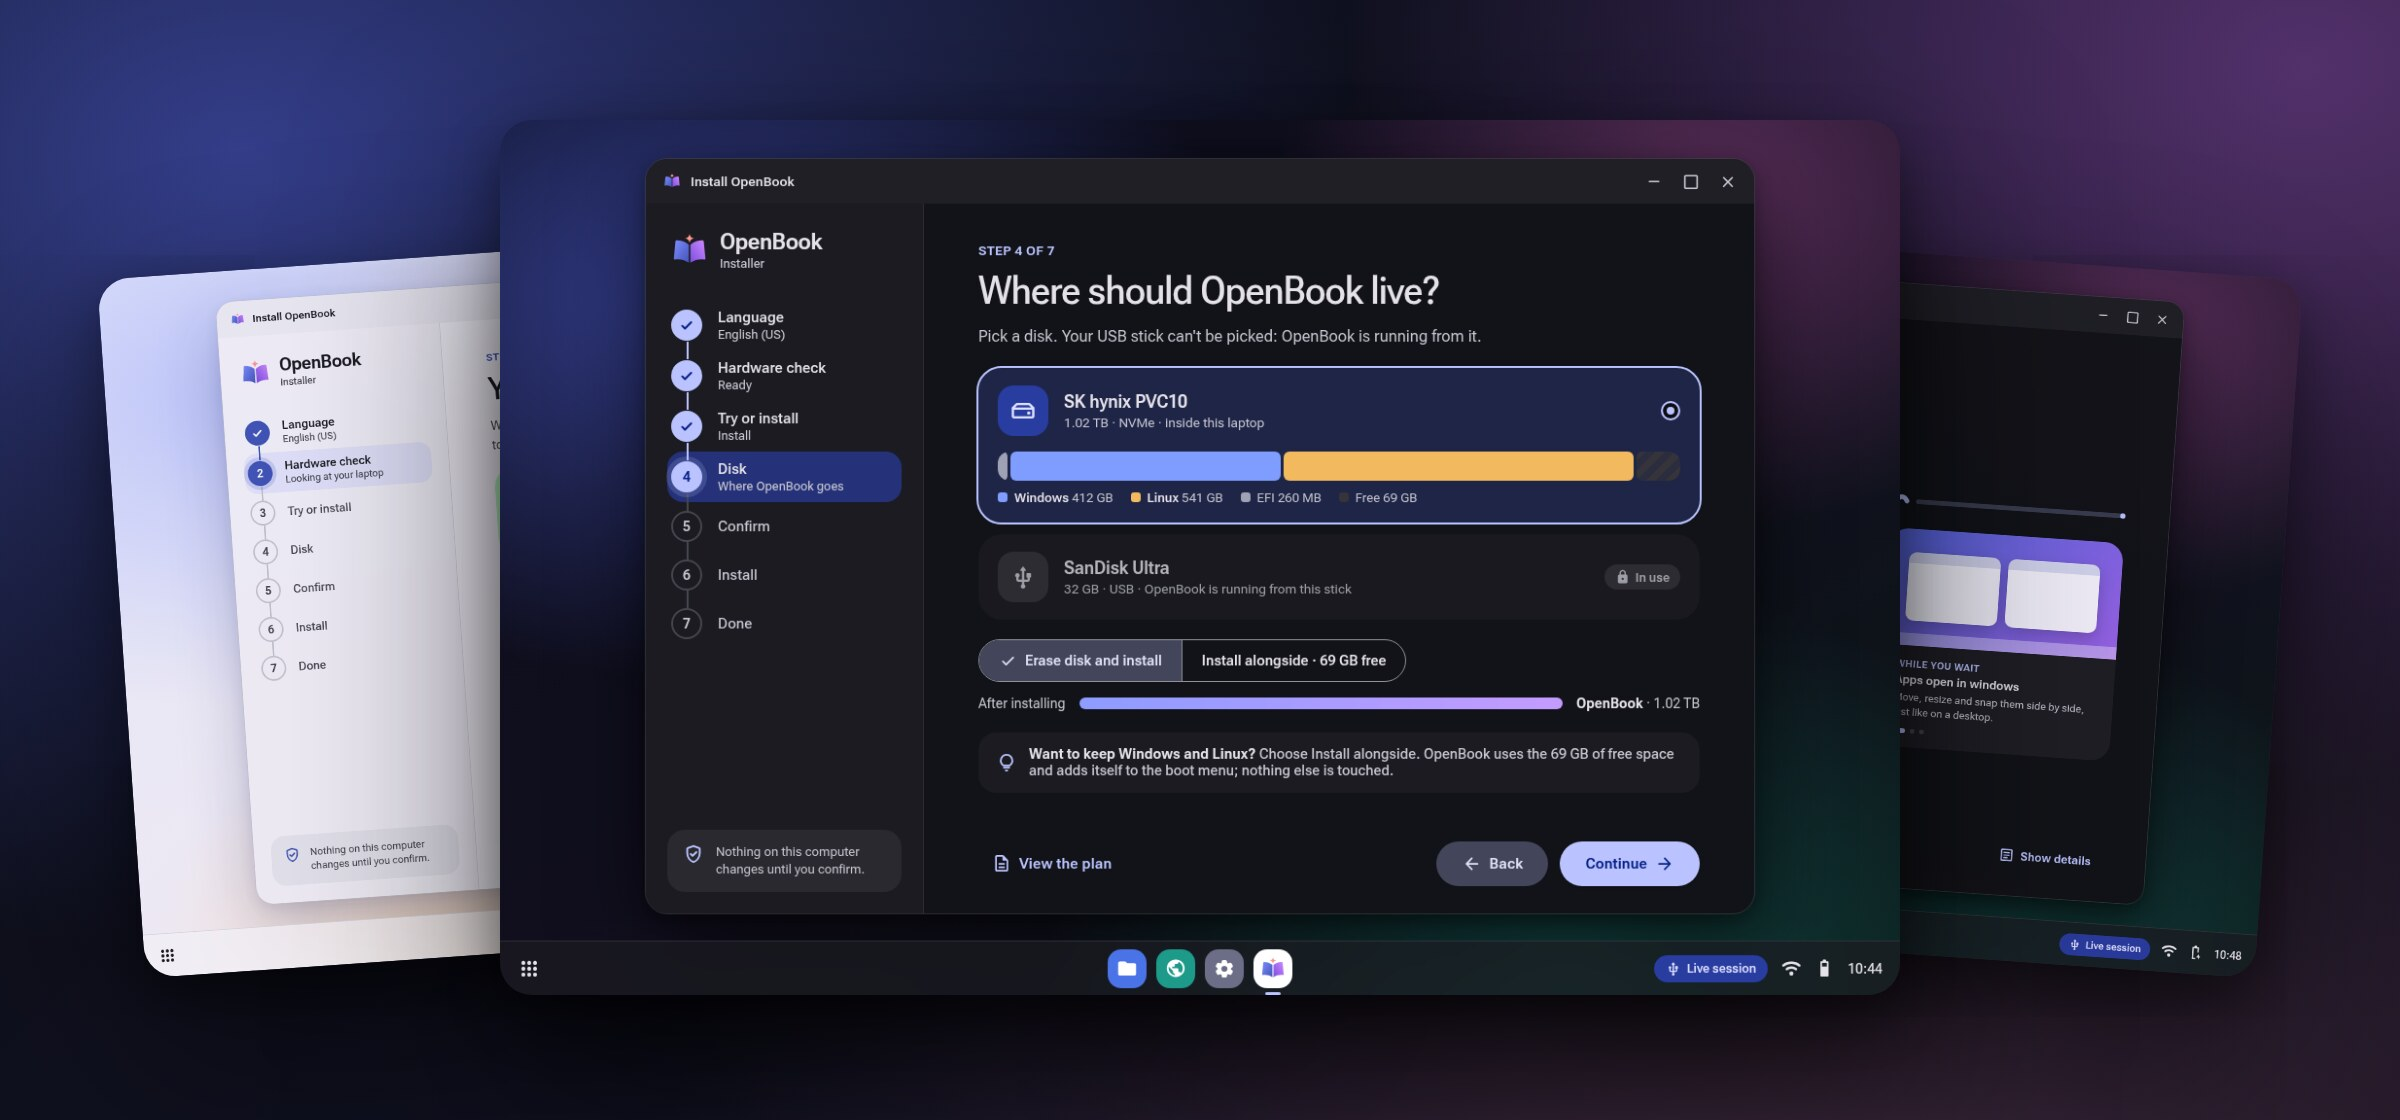
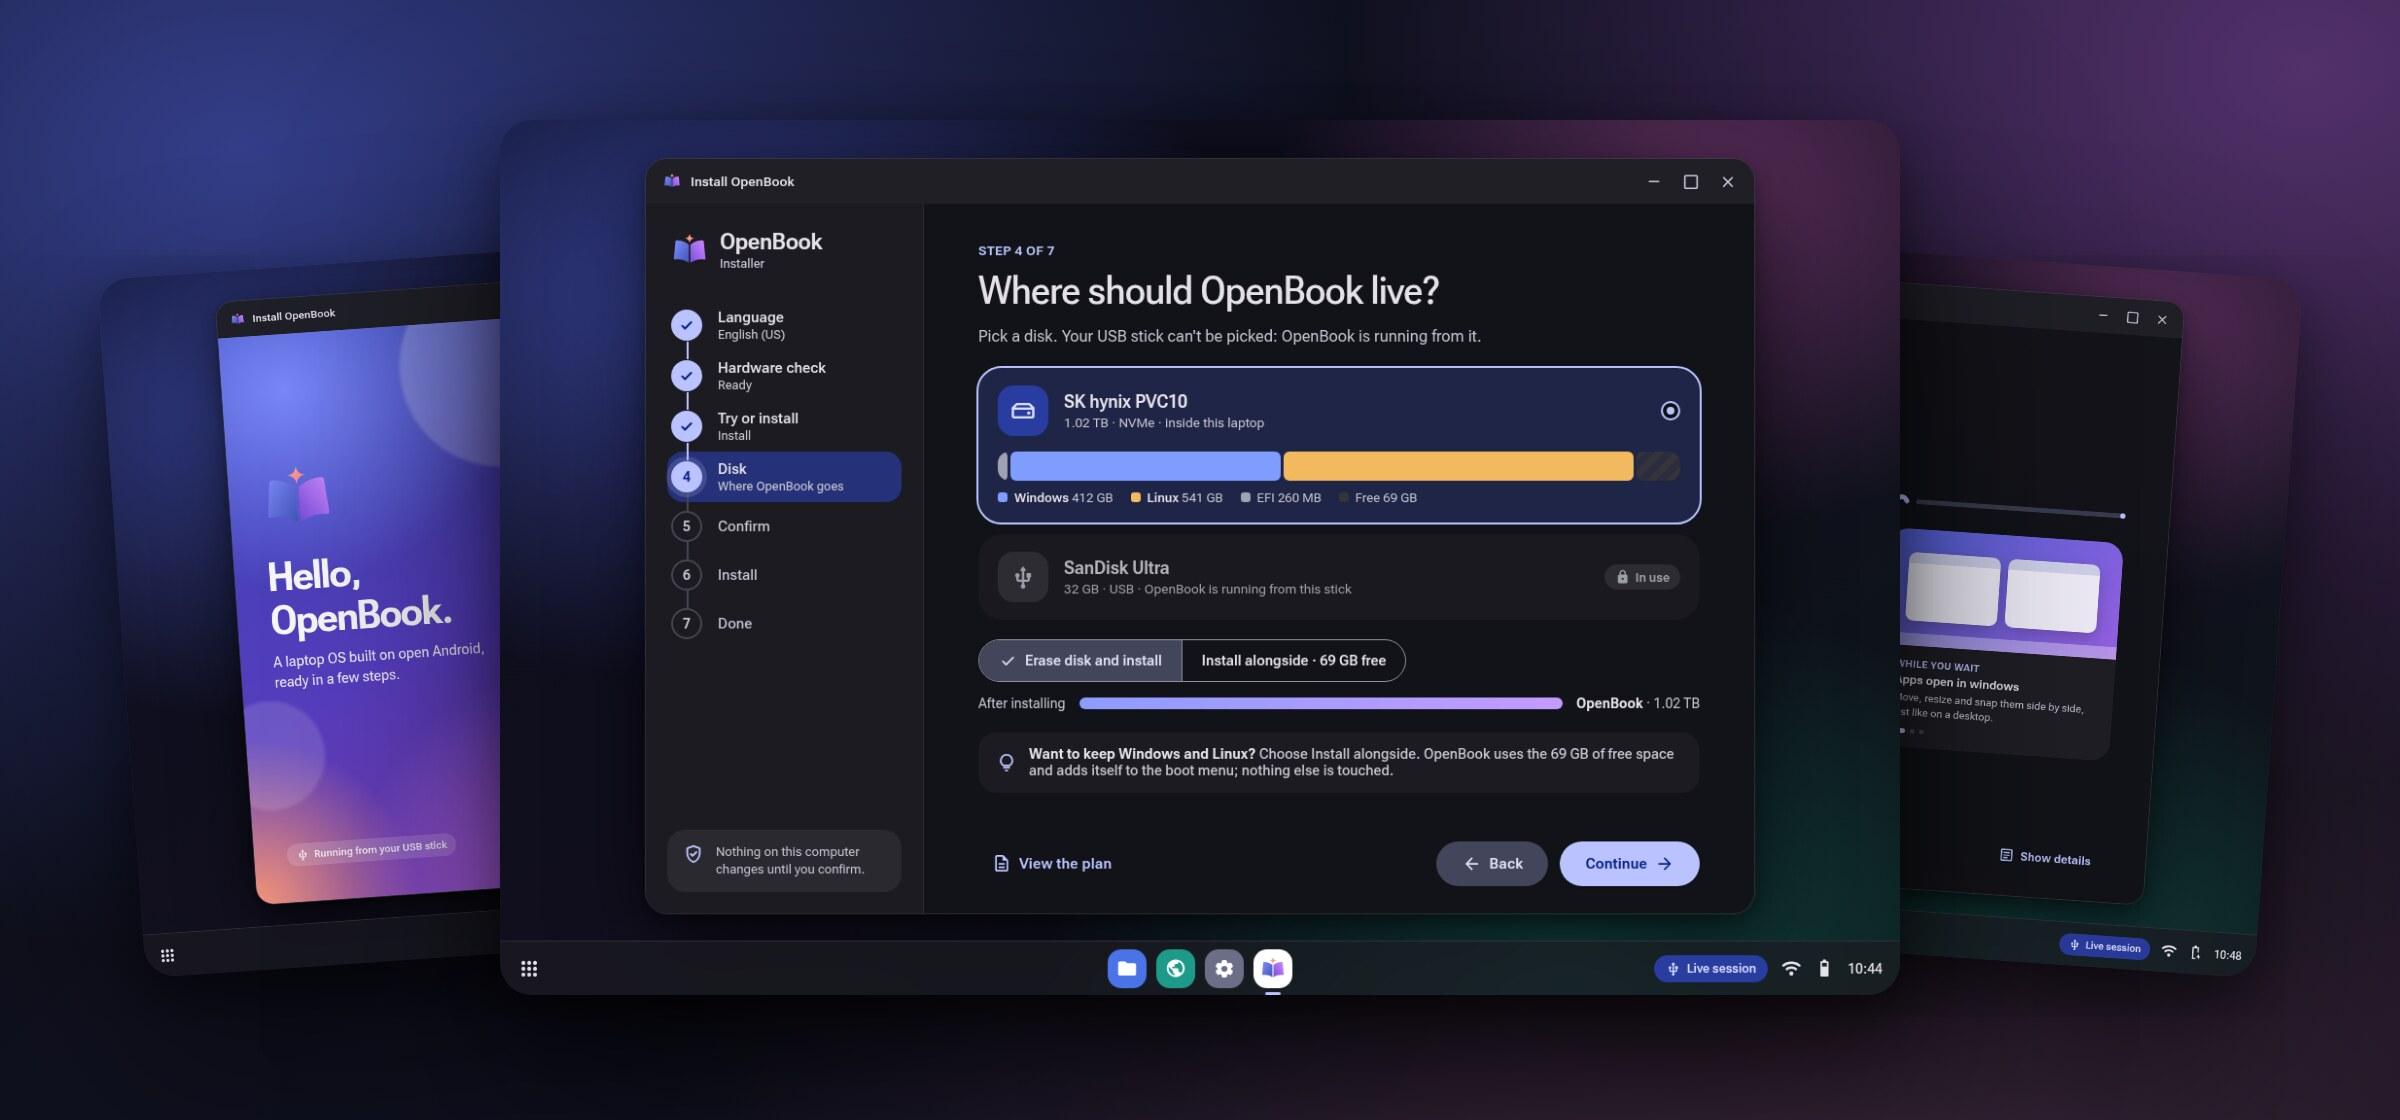
ANAL-159: README polish: one-line badges, wrapped commands, showcase uses screens with dark variants

Changed region(s): [[0.0312, 0.2188, 0.2188, 0.875]]

diff --git a/assets/src/readme-art.html b/assets/src/readme-art.html
@@ -151,7 +151,7 @@ body { font-family: "Roboto Flex", system-ui, sans-serif; color: var(--ink); -we
 </section>
 
 <section id="showcase" class="art wall">
-  <div class="card c1"><img data-src="hardware"></div>
+  <div class="card c1"><img data-src="welcome"></div>
   <div class="card c3"><img data-src="progress"></div>
   <div class="card c2"><img data-src="disk"></div>
 </section>

diff --git a/README.md b/README.md
@@ -7,12 +7,7 @@
 
 <br>
 
-[![Status: pre-alpha](https://img.shields.io/badge/status-pre--alpha-8A5CF0?style=flat-square)](docs/STATUS.md)
-[![Android 17 desktop](https://img.shields.io/badge/Android_17-desktop-3DDC84?style=flat-square&logo=android&logoColor=white)](docs/aosp-desktop.md)
-[![Kernel: GKI 6.18](https://img.shields.io/badge/kernel-GKI_6.18-4355B9?style=flat-square&logo=linux&logoColor=white)](docs/kernel.md)
-[![Graphics: Mesa 26 radeonsi + RADV](https://img.shields.io/badge/graphics-Mesa_26_·_RADV-ED1C24?style=flat-square&logo=amd&logoColor=white)](docs/graphics-amd.md)
-[![First target: ASUS ROG Zephyrus G14](https://img.shields.io/badge/first_target-ROG_Zephyrus_G14_(2025)-1B1B21?style=flat-square&logo=asus&logoColor=white)](docs/HARDWARE.md)
-[![License: pending](https://img.shields.io/badge/license-pending-lightgrey?style=flat-square)](#license-and-legal)
+[![Status: pre-alpha](https://img.shields.io/badge/status-pre--alpha-8A5CF0?style=flat-square)](docs/STATUS.md) [![Android 17 desktop](https://img.shields.io/badge/Android_17-desktop-3DDC84?style=flat-square&logo=android&logoColor=white)](docs/aosp-desktop.md) [![Kernel: GKI 6.18](https://img.shields.io/badge/kernel-GKI_6.18-4355B9?style=flat-square&logo=linux&logoColor=white)](docs/kernel.md) [![Graphics: Mesa 26 radeonsi + RADV](https://img.shields.io/badge/graphics-Mesa_26_·_RADV-ED1C24?style=flat-square&logo=amd&logoColor=white)](docs/graphics-amd.md) [![First target: ASUS ROG Zephyrus G14](https://img.shields.io/badge/first_target-ROG_Zephyrus_G14_(2025)-1B1B21?style=flat-square&logo=asus&logoColor=white)](docs/HARDWARE.md) [![License: pending](https://img.shields.io/badge/license-pending-lightgrey?style=flat-square)](#license-and-legal)
 
 **[Status](#status)** · **[Screenshots](#screenshots)** · **[Hardware](#hardware)** · **[How it works](#how-it-works)** · **[Build it](#build-it)** · **[Docs](#documentation)**
 
@@ -84,7 +79,7 @@
 
 <picture>
   <source media="(prefers-color-scheme: dark)" srcset="assets/readme/showcase-dark.jpg">
-  <img src="assets/readme/showcase-light.jpg" alt="OpenBook installer design: hardware check, disk choice and progress screens" width="100%">
+  <img src="assets/readme/showcase-light.jpg" alt="OpenBook installer design: welcome, disk choice and progress screens" width="100%">
 </picture>
 
 <sub>High-fidelity design renders (Material 3 Expressive) of the recommended installer, an Android app in the live session. Hardware values are sample data. Full set and rationale: <a href="docs/installer-design/png/gallery.png">gallery</a> · <a href="docs/installer.md"><code>docs/installer.md</code></a>.</sub>
@@ -172,8 +167,10 @@ flowchart LR
 git clone https://github.com/Mhsbrian/OpenBook && cd OpenBook
 
 # 1 · Android 17 sources (pinned android-latest-release) and the build container
-docker build -t anybook-aosp -f tools/Dockerfile.aosp --build-arg UID=$(id -u) --build-arg GID=$(id -g) tools/
-scripts/aosp-docker.sh -d anybook-aosp-sync /repo/scripts/aosp-sync.sh all && docker wait anybook-aosp-sync
+docker build -t anybook-aosp -f tools/Dockerfile.aosp \
+  --build-arg UID=$(id -u) --build-arg GID=$(id -g) tools/
+scripts/aosp-docker.sh -d anybook-aosp-sync /repo/scripts/aosp-sync.sh all
+docker wait anybook-aosp-sync
 
 # 2 · Mesa for Android (radeonsi + RADV), staged into the tree
 docker build -t anybook-mesa-android -f tools/Dockerfile.mesa-android tools/
@@ -181,9 +178,11 @@ scripts/mesa-android-build.sh fetch deps setup build install verify -- upstream
 scripts/graphics-amd-stage-mesa.sh
 
 # 3 · Build the OpenBook desktop product and boot it in a VM on your GPU
-AOSP_JOBS=32 scripts/aosp-docker.sh -d anybook-aosp-build /repo/scripts/aosp-build.sh anybook_cf_x86_64_pc-cp2a-userdebug
+AOSP_JOBS=32 scripts/aosp-docker.sh -d anybook-aosp-build \
+  /repo/scripts/aosp-build.sh anybook_cf_x86_64_pc-cp2a-userdebug
 docker wait anybook-aosp-build
-CF_GPU=amd CF_GPU_MODE=gfxstream_guest_angle CF_DEVICE=anybook_vsoc_x86_64 scripts/cf-boot.sh
+CF_GPU=amd CF_GPU_MODE=gfxstream_guest_angle CF_DEVICE=anybook_vsoc_x86_64 \
+  scripts/cf-boot.sh
 ```
 
 The full, tested steps, including the kernel, the hardware-check stick and the installer prototype, are in [`docs/BUILD.md`](docs/BUILD.md).
